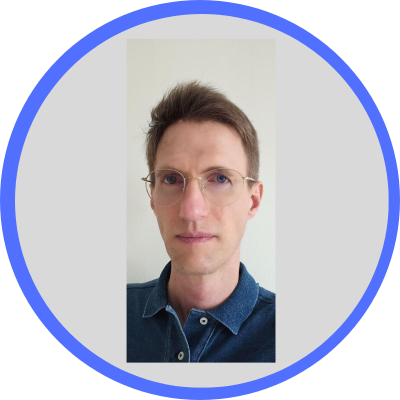
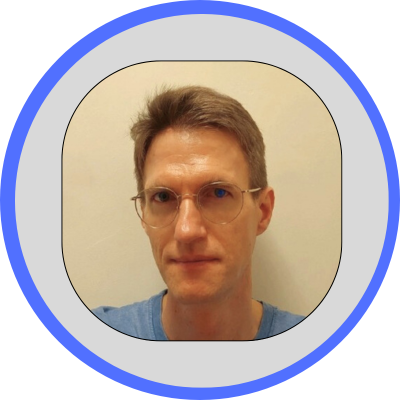
update headshots

diff --git a/docs/speakers.md b/docs/speakers.md
@@ -23,7 +23,7 @@ CloudCon will have sessions on the following areas:
 - [![Adrian Cole](images/speakers/headshots/AdrianCole.png) Adrian Cole](abstracts/AdrianCole.md)
 - [![Anatoly Litovsky](images/speakers/headshots/AnatolyLitovsky.png) Anatoly Litovsky](abstracts/AnatolyLitovsky.md)
 - [![Artur Rajski](images/speakers/headshots/ArturRajski.png) Artur Rajski](abstracts/ArturRajski.md)
-- [![Avi Shua](images/speakers/headshots/placeholder.png) Avi Shua](abstracts/AviShua.md)
+- [![Avi Shua](images/speakers/headshots/AviShua.png) Avi Shua](abstracts/AviShua.md)
 - [![Bojan Zivic](images/speakers/headshots/placeholder.png) Bojan Zivic](abstracts/BojanZivic.md)
 - [![Brad McCoy](images/speakers/headshots/placeholder.png) Brad McCoy](abstracts/BradMcCoy.md)
 - [![Carlos Santana](images/speakers/headshots/CarlosSantana.png) Carlos Santana](abstracts/CarlosSantana.md)
